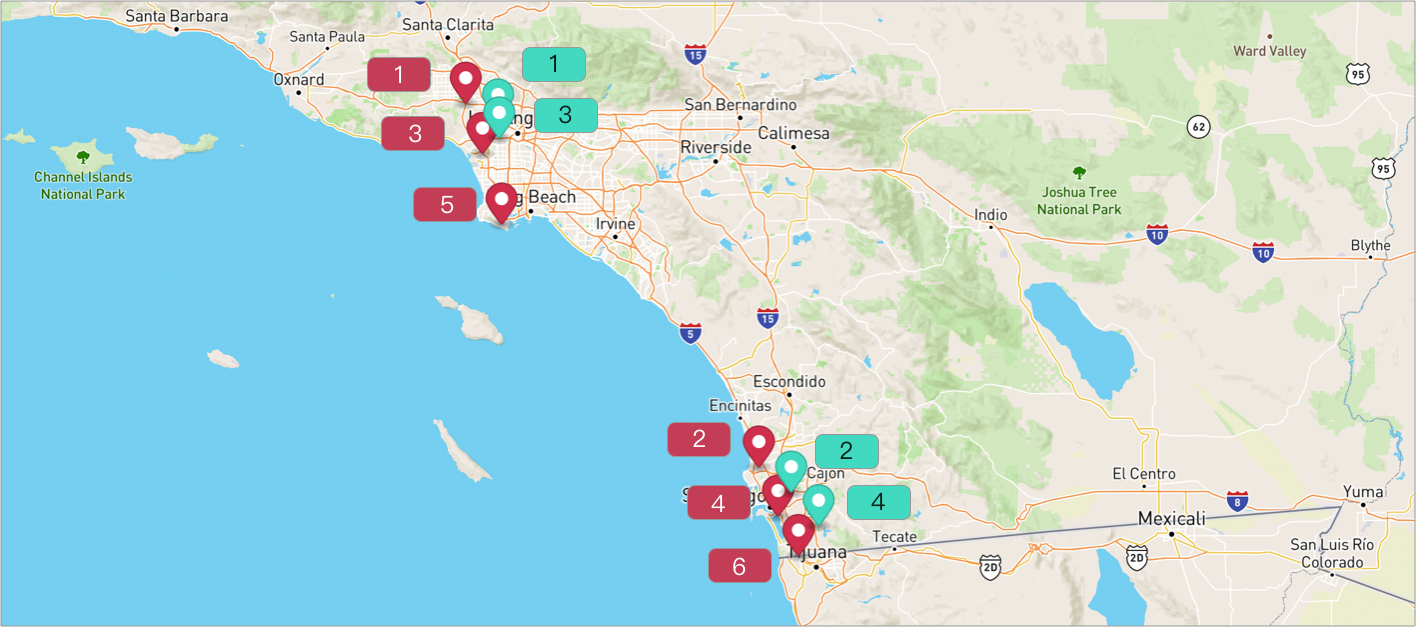
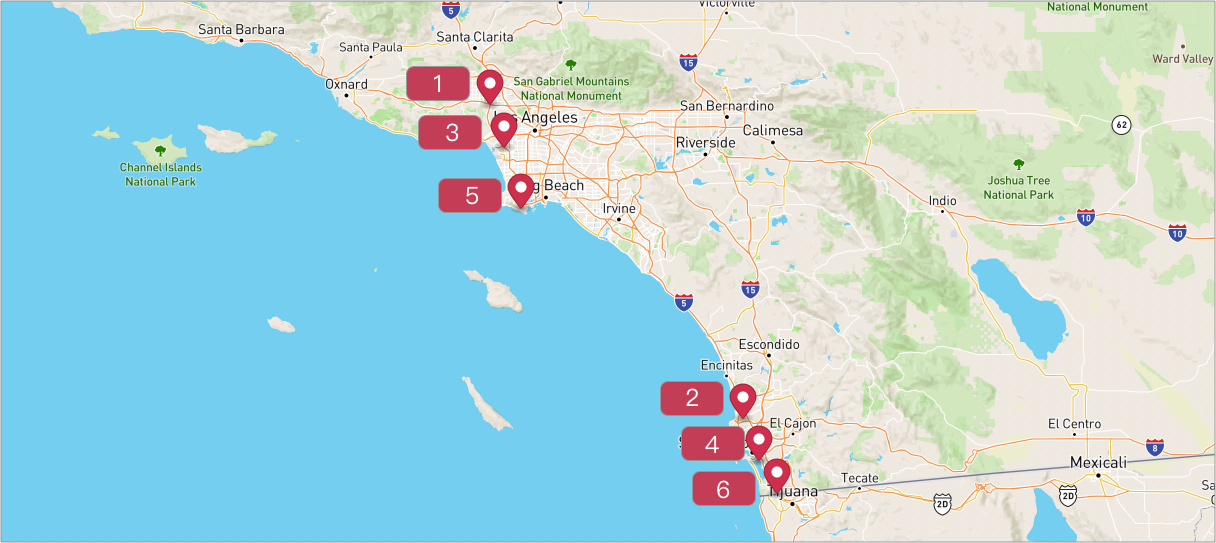
Update Tutorial of What-if with source sequence

diff --git a/what-if/source-sequence/README.md b/what-if/source-sequence/README.md
@@ -78,16 +78,6 @@ POST https://isp.beans.ai/enterprise/v1/lists/routes
             {
                 "list_warehouse_id": "6f4f7bf9-b878-4eda-b01d-17dfcfcdadc3"
             }
-        },
-        {
-            "name": "Via Cassia",
-            "list_route_id": "7d4b65f1-985c-40d9-a49a-fd92be45d035",
-            "status": "OPEN",
-            "date_str": "2031-02-21",
-            "warehouse":
-            {
-                "list_warehouse_id": "6f4f7bf9-b878-4eda-b01d-17dfcfcdadc3"
-            }
         }
     ]
 }
@@ -98,7 +88,7 @@ POST https://isp.beans.ai/enterprise/v1/lists/routes
 ### Add stops to the routes
 ![stops](assets/images/stops.png)
 
-Let's add stops to the two routes, one with 6 stops and 2 stops for the other.
+Let's add 6 stops to the route.
 
 And we will predetermine the order of stops with source_seq.
 
@@ -171,42 +161,6 @@ POST https://isp.beans.ai/enterprise/v1/lists/items
             },
             "tracking_id": "f5ef7959-06",
             "source_seq": 6
-        },
-        {
-            "list_item_id": "7d4b65f1-985c-40d9-a49a-fd92be45d035-01",
-            "address": "1750 Vine St, Los Angeles, CA 90028, United States",
-            "route": {
-                "list_route_id": "7d4b65f1-985c-40d9-a49a-fd92be45d035"
-            },
-            "tracking_id": "7d4b65f1-01",
-            "source_seq":1
-        },
-        {
-            "list_item_id": "7d4b65f1-985c-40d9-a49a-fd92be45d035-02",
-            "address": "3508 W Washington Blvd, Los Angeles, CA 90018, United States",
-            "route": {
-                "list_route_id": "7d4b65f1-985c-40d9-a49a-fd92be45d035"
-            },
-            "tracking_id": "7d4b65f1-02",
-            "source_seq":2
-        },
-        {
-            "list_item_id": "7d4b65f1-985c-40d9-a49a-fd92be45d035-03",
-            "address": "5500 Campanile Dr, San Diego, CA 92182, United States",
-            "route": {
-                "list_route_id": "7d4b65f1-985c-40d9-a49a-fd92be45d035"
-            },
-            "tracking_id": "7d4b65f1-03",
-            "source_seq":3
-        },
-        {
-            "list_item_id": "7d4b65f1-985c-40d9-a49a-fd92be45d035-04",
-            "address": "851 Showroom Pl #100, Chula Vista, CA 91914, United States",
-            "route": {
-                "list_route_id": "7d4b65f1-985c-40d9-a49a-fd92be45d035"
-            },
-            "tracking_id": "7d4b65f1-04",
-            "source_seq":4
         }
     ]
 }
@@ -214,7 +168,8 @@ POST https://isp.beans.ai/enterprise/v1/lists/items
 
 
 ### Run What If
-Now we want to see what if we put the two stops into the route which has 6 stops.
+Now let's see what-if we put 4 floating stops to the route with `ignore_source_sequence = true`
+![floating-stops](assets/images/stops-with-floating-stops.png)
 
 **Request Example**
 
@@ -228,55 +183,34 @@ POST https://isp.beans.ai/enterprise/v1/lists/route_whatif
 {
     "item": [
         {
-            "list_item_id": "7d4b65f1-985c-40d9-a49a-fd92be45d035-01",
-            "address": "1750 Vine St, Los Angeles, CA 90028, United States",
-            "tracking_id": "7d4b65f1-01",
-            "source_seq": 10
+            "list_item_id": "7d4b65f1-985c-40d9-a49a-fd92be45d035-011",
+            "address": "1750 Vine St, Los Angeles, CA 90028, United States"
         },
         {
-            "list_item_id": "7d4b65f1-985c-40d9-a49a-fd92be45d035-02",
-            "address": "3508 W Washington Blvd, Los Angeles, CA 90018, United States",
-            "tracking_id": "7d4b65f1-02",
-            "source_seq": 20
+            "list_item_id": "7d4b65f1-985c-40d9-a49a-fd92be45d035-012",
+            "address": "3508 W Washington Blvd, Los Angeles, CA 90018, United States"
         },
         {
-            "list_item_id": "7d4b65f1-985c-40d9-a49a-fd92be45d035-03",
-            "address": "5500 Campanile Dr, San Diego, CA 92182, United States",
-            "tracking_id": "7d4b65f1-03",
-            "source_seq": 30
+            "list_item_id": "7d4b65f1-985c-40d9-a49a-fd92be45d035-013",
+            "address": "5500 Campanile Dr, San Diego, CA 92182, United States"
         },
         {
-            "list_item_id": "7d4b65f1-985c-40d9-a49a-fd92be45d035-04",
-            "address": "851 Showroom Pl #100, Chula Vista, CA 91914, United States",
-            "tracking_id": "7d4b65f1-04",
-            "source_seq": 40
+            "list_item_id": "7d4b65f1-985c-40d9-a49a-fd92be45d035-014",
+            "address": "851 Showroom Pl #100, Chula Vista, CA 91914, United States"
+            
         }
     ],
     "listRouteIds": [
         "f5ef7959-1414-4b7f-ba9c-d0f8f351a07c"
     ],
-    "route_size_limit": 50,
-    "ignore_source_sequence": false
+    "ignore_source_sequence": true
 }
 ```
 - item (required)
   - An array of stops
 - list_route_ids (optional)
   - An array of existing route IDs in the system. If a route ID does not exist in the system, it would be ignored
-- - If this is NOT specified, then, ALL open routes are considered, which could be very expansive depending on the number of open routes
-- route_size_limit (optional, though strongly recommended) 
-  - The upper limit of the number of items in a route for that route to be considered. So, for example, if 3a26ff50fb3830b8be7f3d50e0b5e0fa has 60 stops, that route would NOT be considered 
-- request_id (required)
-  - The ID to identify this request, can be used to query the status later.
-- use_warehouse_as_terminal (optional)
-  - Default to false would render the route to be computed to "end anywhere". If it is set the true, then, the warehouse specified on the route would be used as the terminal of the route.
-- include_multi_day_window_stops (optional)
-  - Default to false would remove the stops from request (and not from route) where the gap between deliver_from and deliver_by is more than 24 hours. This is to guard against the situation where a stop may be fulfilled anytime within the next 5 days, for instance.
-  - If this is set to true, such stops would be included in the route computation, and the system would currently attempt to honor that stop within the single day
-- include_open_stops_outside_current_date (optional)
-  - default is false.
-  - if it is true, all the stops that are still "open" would be included in the what-if computations.
-  - If it is false, then, a stop where deliver_from_str and deliver_by_str that does not intersect with the current local date time will NOT be included.
+  - If this is NOT specified, then, ALL open routes are considered, which could be very expansive depending on the number of open routes
 - `ignore_source_sequence` (optional)
   - default is false.
   - if it is false, it means source_seq attribute would be observed.
@@ -287,35 +221,27 @@ POST https://isp.beans.ai/enterprise/v1/lists/route_whatif
 {
     "item": [
         {
-            "listItemId": "7d4b65f1-985c-40d9-a49a-fd92be45d035-01",
-            "address": "1750 Vine St, Los Angeles, CA 90028, United States",
-            "trackingId": "7d4b65f1-01",
-            "sourceSeq": 10
+            "listItemId": "7d4b65f1-985c-40d9-a49a-fd92be45d035-011",
+            "address": "1750 Vine St, Los Angeles, CA 90028, United States"
         },
         {
-            "listItemId": "7d4b65f1-985c-40d9-a49a-fd92be45d035-02",
-            "address": "3508 W Washington Blvd, Los Angeles, CA 90018, United States",
-            "trackingId": "7d4b65f1-02",
-            "sourceSeq": 20
+            "listItemId": "7d4b65f1-985c-40d9-a49a-fd92be45d035-012",
+            "address": "3508 W Washington Blvd, Los Angeles, CA 90018, United States"
         },
         {
-            "listItemId": "7d4b65f1-985c-40d9-a49a-fd92be45d035-03",
-            "address": "5500 Campanile Dr, San Diego, CA 92182, United States",
-            "trackingId": "7d4b65f1-03",
-            "sourceSeq": 30
+            "listItemId": "7d4b65f1-985c-40d9-a49a-fd92be45d035-013",
+            "address": "5500 Campanile Dr, San Diego, CA 92182, United States"
         },
         {
-            "listItemId": "7d4b65f1-985c-40d9-a49a-fd92be45d035-04",
-            "address": "851 Showroom Pl #100, Chula Vista, CA 91914, United States",
-            "trackingId": "7d4b65f1-04",
-            "sourceSeq": 40
+            "listItemId": "7d4b65f1-985c-40d9-a49a-fd92be45d035-014",
+            "address": "851 Showroom Pl #100, Chula Vista, CA 91914, United States"
         }
     ],
     "listRouteIds": [
         "f5ef7959-1414-4b7f-ba9c-d0f8f351a07c"
     ],
-    "routeSizeLimit": 50,
-    "requestId": "3b2dbab208474f1bb301f9f414e0d061",
+    "requestId": "d13210fc0075487fbd575b68c7070a4f",
+    "ignoreSourceSequence": true,
     "logs": [
         "Starting to compute what-ifs for 1 routes",
         "There are 1 routes where 0 are not suitable and 1 are possibilities"
@@ -334,10 +260,27 @@ POST https://isp.beans.ai/enterprise/v1/lists/route_whatif
 }
 ```
 
+Let's see the different result with `ignore_source_sequence = false`
+```json
+ ...
+    "result": {
+        "routes": [
+            {
+                "listRouteId": "f5ef7959-1414-4b7f-ba9c-d0f8f351a07c",
+                "deltaDistanceM": 27406.0,
+                "deltaTimeS": 2535.5
+            }
+        ]
+    },
+ ...
+
+```
+
+
 ## Some Important Notes
-- if a route does not have "deltaDistanceM" and "deltaTimeS", then, it is 0 (default value). This often happens when the stops to be added already exist on that route
-- delta distance and time can be negative, suggesting reductions
-- reduction in one DOES NOT imply reduction in another
+- If a route does not have "deltaDistanceM" and "deltaTimeS", then, it is 0 (default value). This often happens when the stops to be added already exist on that route
+- Delta distance and time can be negative, suggesting reductions
+- Reduction in one DOES NOT imply reduction in another
   - for example, if a distance is reduced, but with more city driving, then, the time may be increased (sometimes quite dramatically)
 - It is critical to look at both distance and time deltas to pick one that achieve proper balance. Thus, if a route has both smallest delta distance and smallest delta time, that is often a good route.
   - However, if the smallest delta distance route is not the same as the smallest delta time, it is often the case that the smallest delta time is a better route

diff --git a/what-if/README.md b/what-if/README.md
@@ -32,4 +32,4 @@ Authorization: Basic OE9Bd2hiSzA6Qzc3NTJFMjQwNTkxNDk0NUU3RDA4
 - [General Tutorial](https://github.com/beansai/beans-tutorials/tree/main/dynamic-routes-optimization/what-if-routes-computations)
   - Run What-if
   - Run What-if async
-- [Predetermined Ordering of Stops](source-sequence) - When we want to observe on the ordering of the stops visiting.
+- [Predetermined Ordering of Stops](source-sequence) - When we want to see how ordering of the Stops affects the result.
